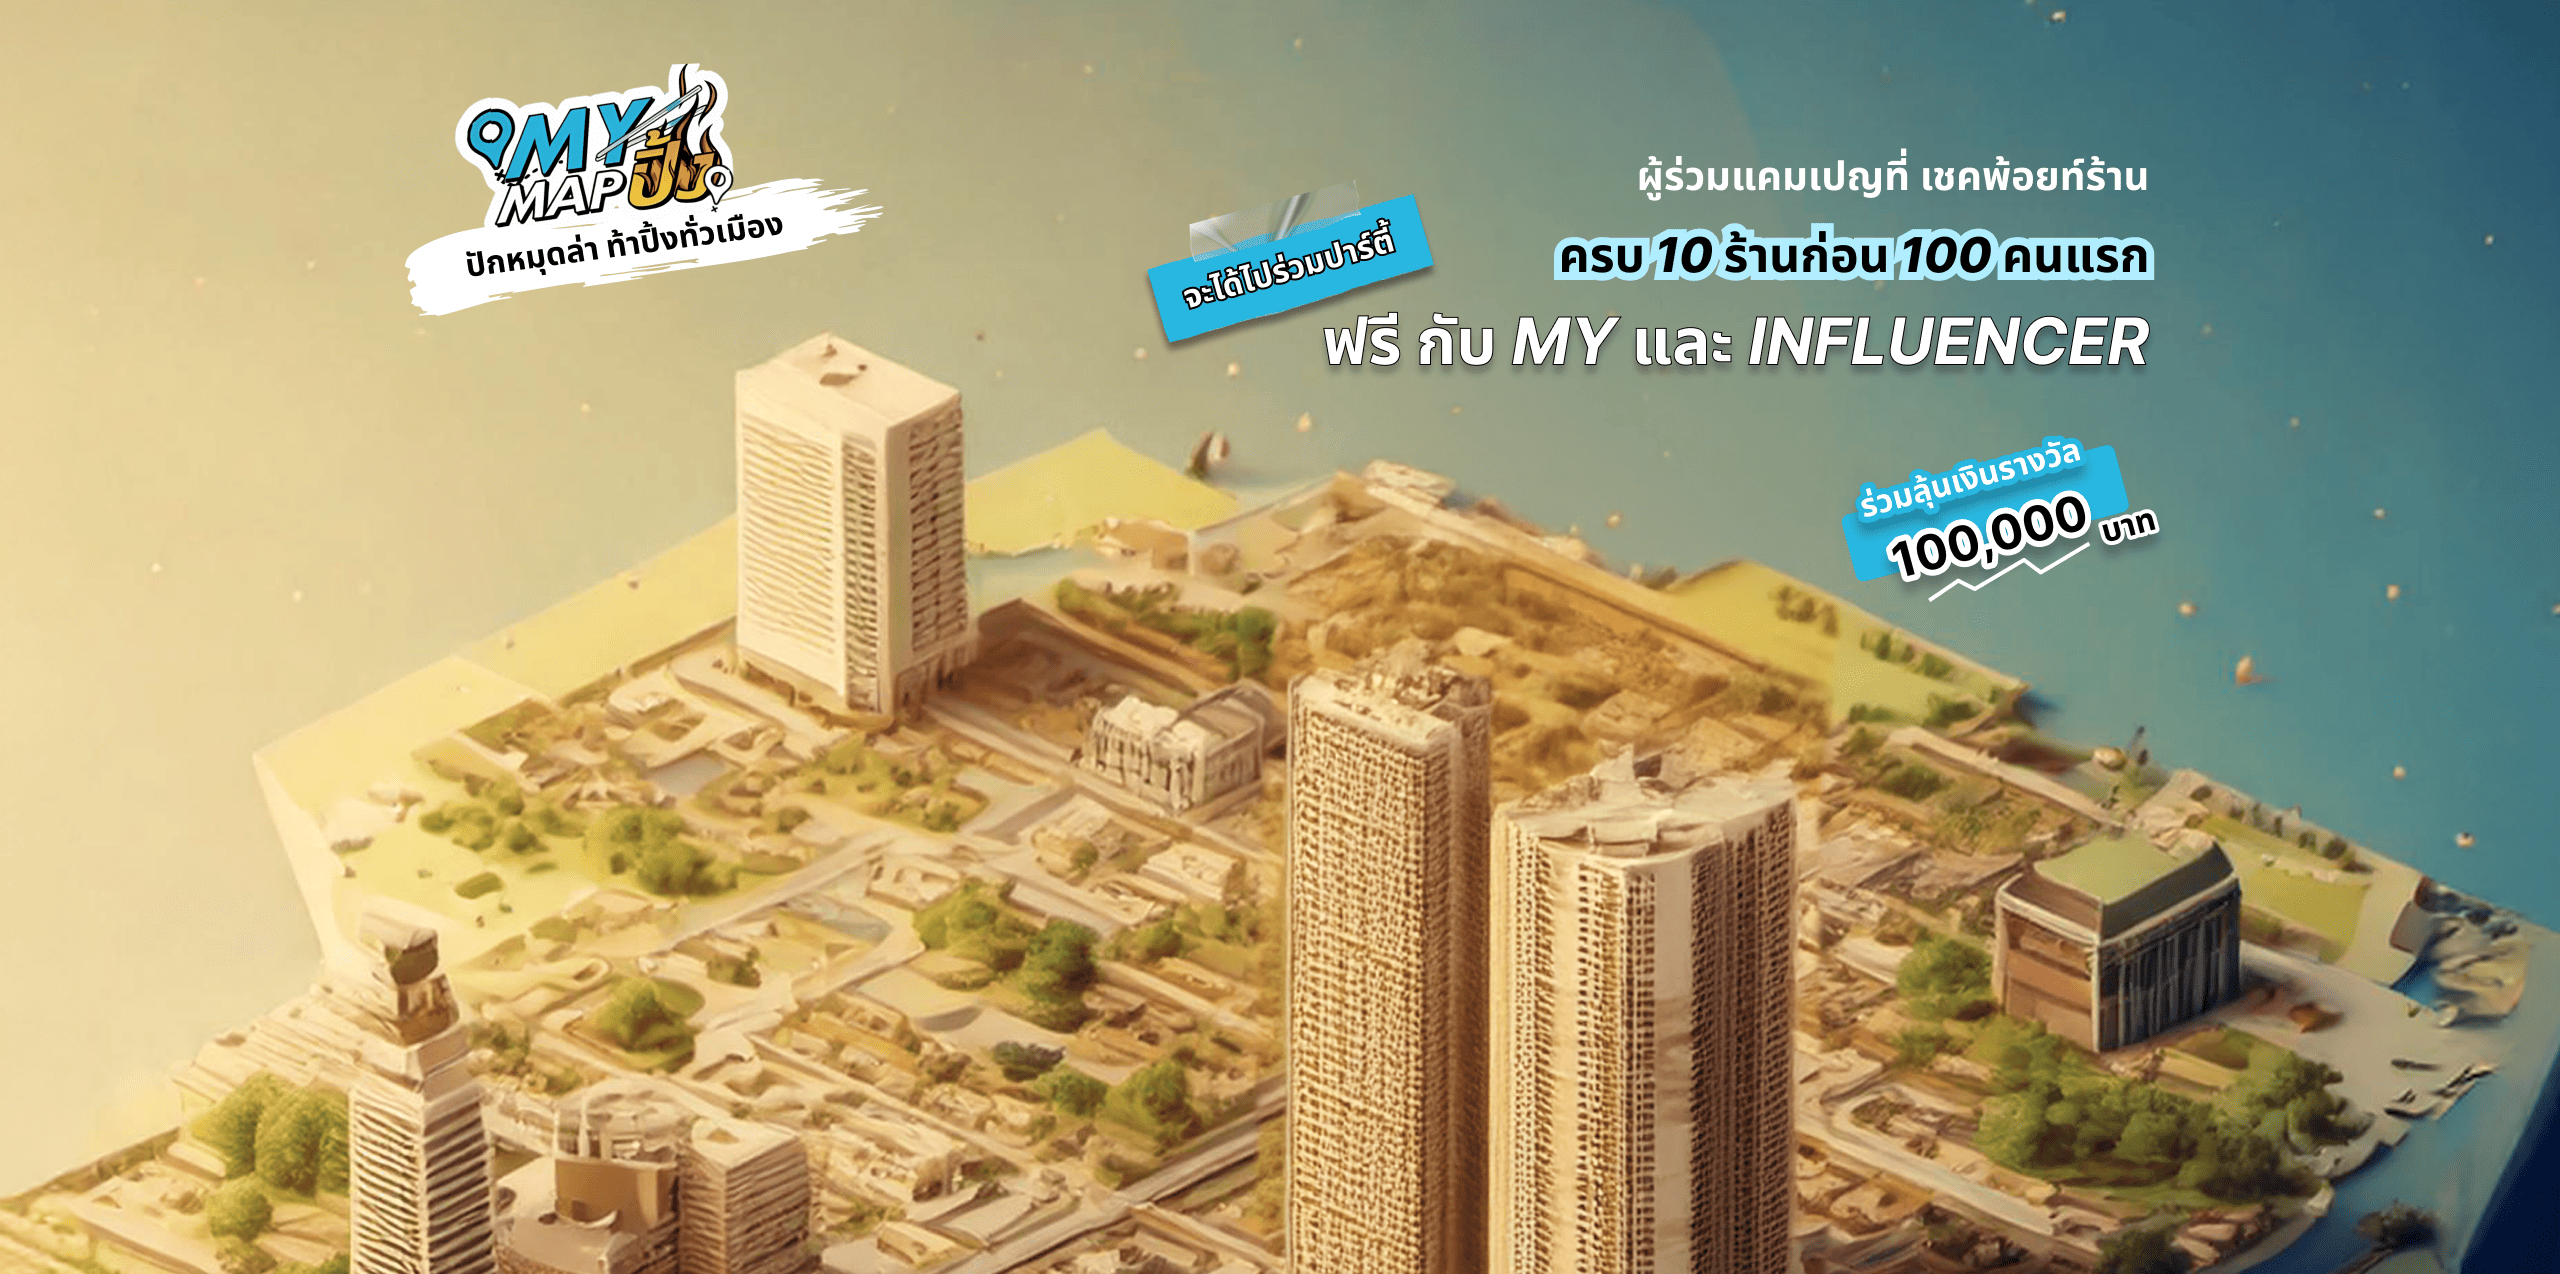
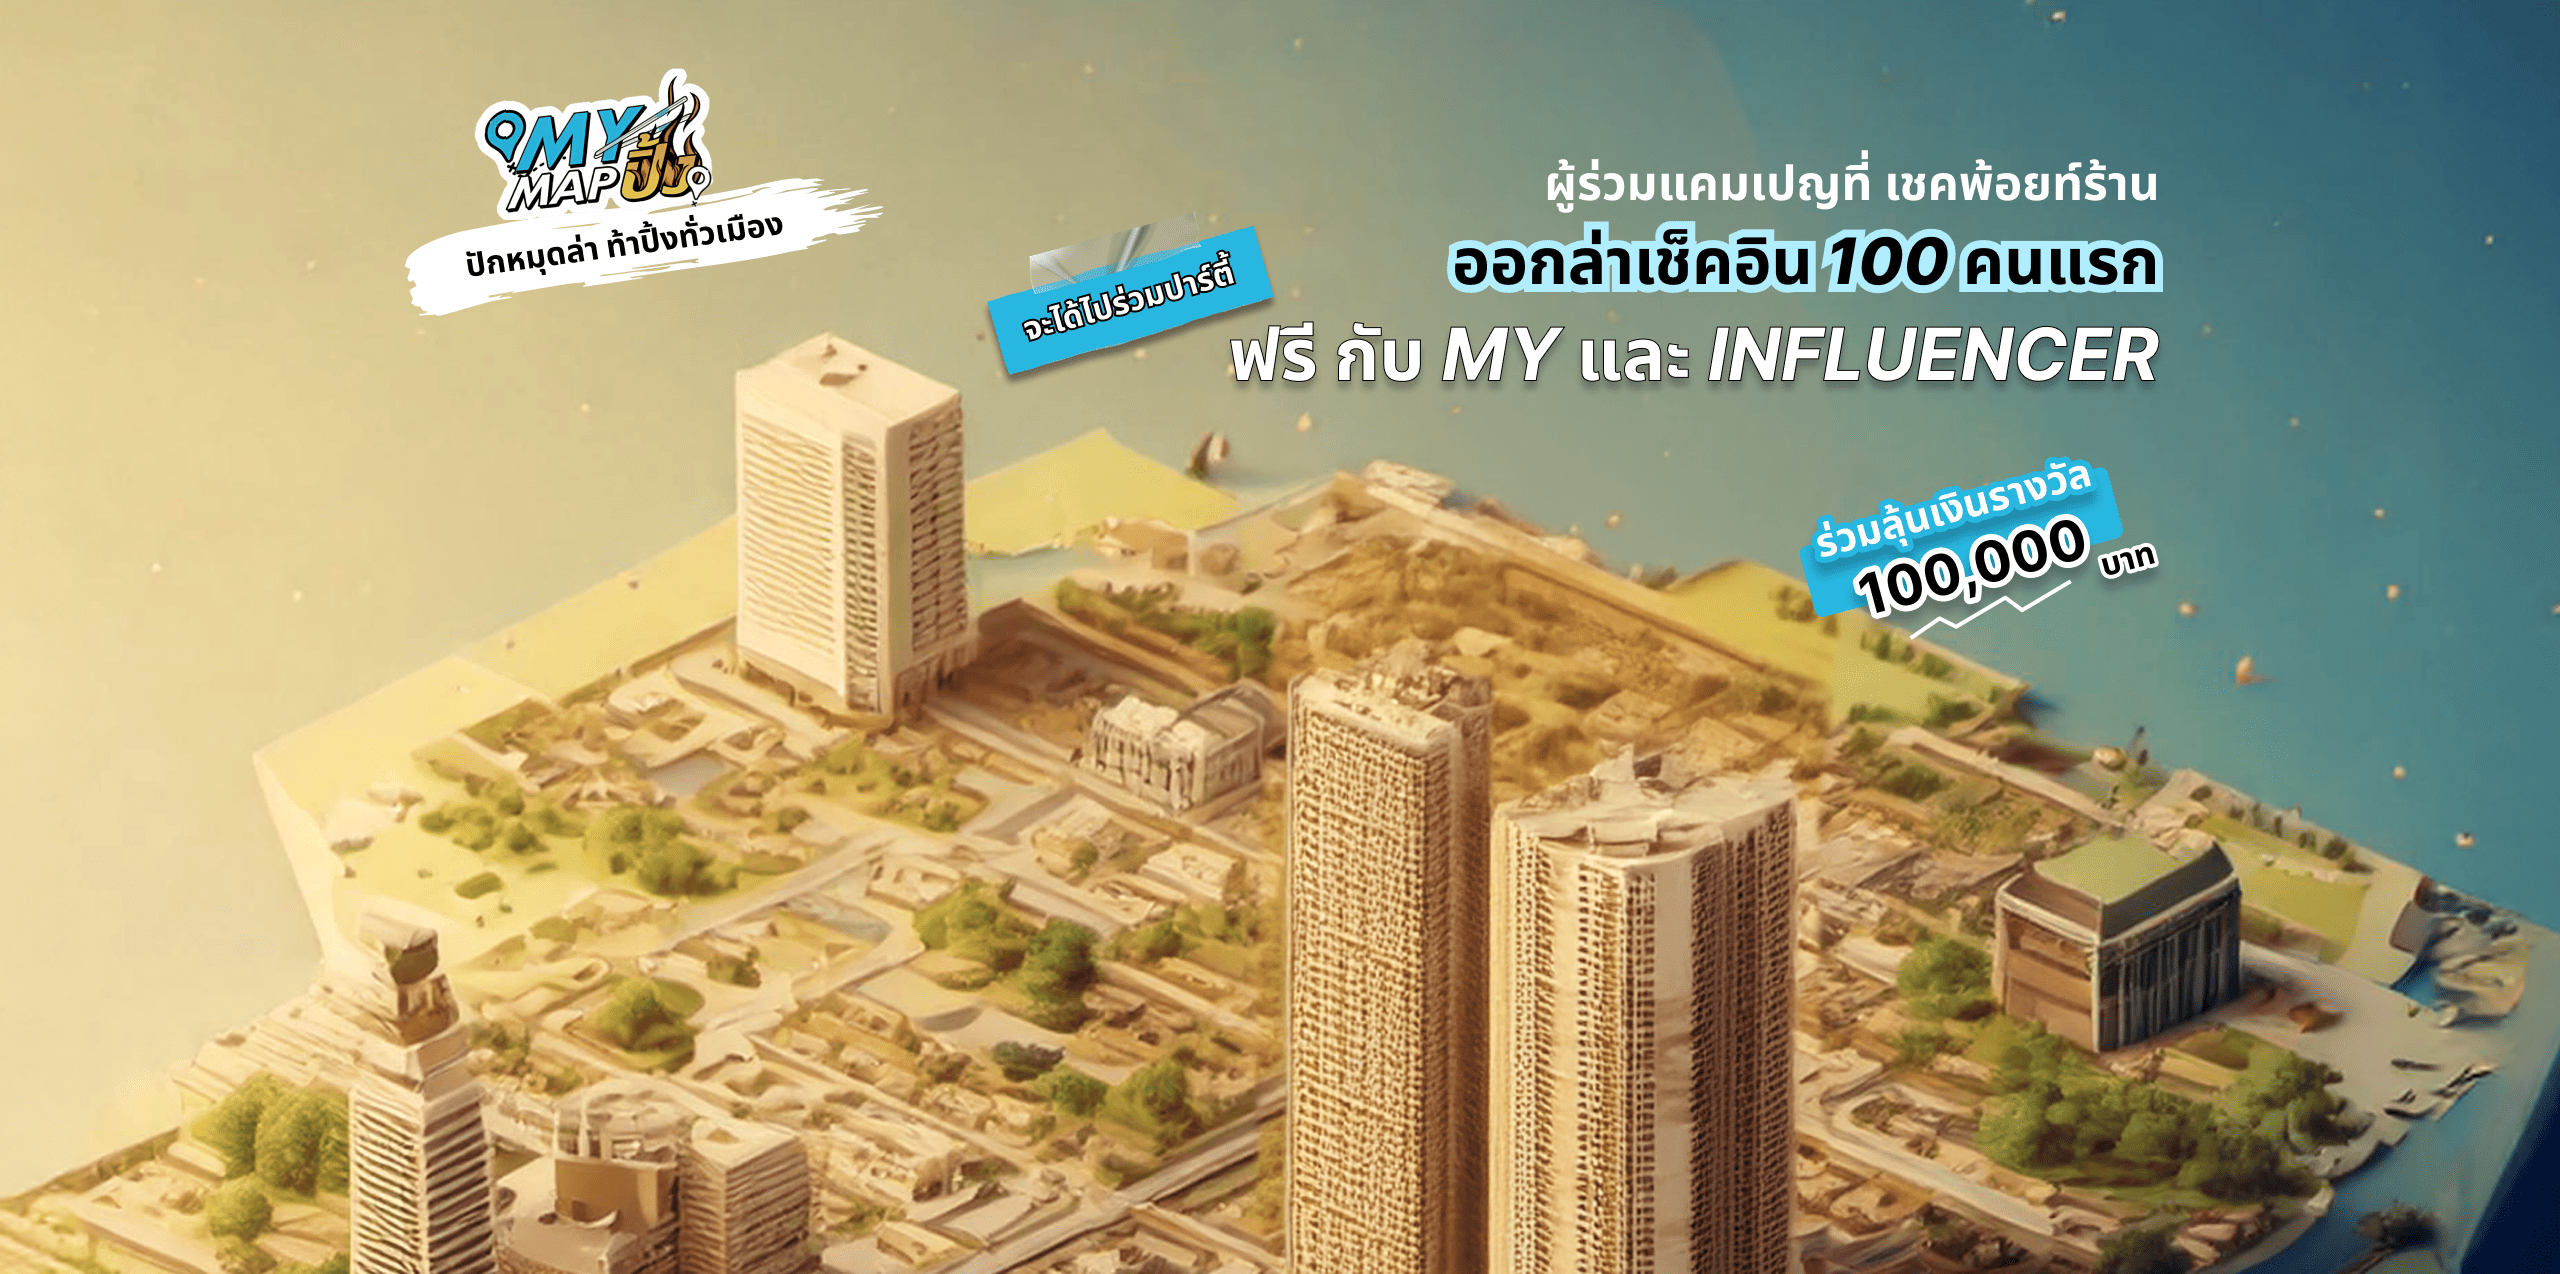
update

diff --git a/src/components/Landing/Location.jsx b/src/components/Landing/Location.jsx
@@ -43,6 +43,7 @@ const Location = ({ onCheckin }) => {
     { id: 9, name: "Bar Mookrata", top: { pc: "50%", mobile: "57%" }, left: { pc: "66%", mobile: "61%" }, image: "images/pin10.png" },
     { id: 10, name: "อารยาหมูกระทะ", top: { pc: "37%", mobile: "44%" }, left: { pc: "84%", mobile: "90%" }, image: "images/pin7.png" },
     { id: 11, name: "วาสนาหมูกะทะ", top: { pc: "38%", mobile: "30%" }, left: { pc: "50%", mobile: "70%" }, image: "images/pin11.png" },
+    // { id: 10, name: "อาริยา หมูกระทะ", top: { pc: "35%", mobile: "38%" }, left: { pc: "65%", mobile: "85%" }, image: "images/pin7.png" },
   ];
 
   // แปลงข้อมูล getrestaurantData มาใช้แสดงตามตำแหน่งที่กำหนด
@@ -77,50 +78,34 @@ const Location = ({ onCheckin }) => {
         position: 'relative',
       }}
     >
-
-      {customerinfo &&
-        <>
-          {/* แสดงข้อมูล Leaderboard ของลูกค้า */}
-          {leaderInfo ? (
-            <div className="sticky top-0 left-0 right-0 bg-white p-2 w-full shadow-md shadow-black z-10">
-              <div className="flex justify-between items-center">
-                <div className="flex gap-2 items-center">
-                  {/* เช็คและแสดงอันดับที่พร้อมไอคอน */}
-                  <div className="border-r-1 pr-2">
-                    {customerRank < 3 ? (<div className="flex gap-2">
-                      อันดับที่ : <img src={icons[customerRank + 1]} alt={`อันดับที่ ${customerRank + 1}`} className="w-6 h-6 mr-2" />
-                    </div>) : (
-                      <div className="flex gap-2">อันดับที่ : {customerRank + 1}</div>
-                    )}
-                  </div>
-                  <div className="bg-[#C2F1FF] text-black px-3 py-1 rounded-xl shadow-md">
-                  {leaderInfo?.total} แต้ม
-                  </div>
-                </div>
-                <div className="flex gap-1 items-center">
-                  <img src={leaderInfo?.customer?.picture} alt={leaderInfo.customer.name} className="w-10 h-10 rounded-full mr-2" />
-                  <p className="font-bold">{leaderInfo?.customer?.name}</p>
-                </div>
-              </div>
-            </div>
-          ) : null}
-        </>
-      }
-
       <img src="images/ripper2.png" className="w-full mx-auto block lg:hidden" />
 
-      <div className="logo-container mt-25 justify-center block lg:hidden">
+      <div className="logo-container mt-15 justify-center block lg:hidden">
         <img src="images/LogoMymap.png" alt="Logo" className="w-40 lg:w-48" />
       </div>
 
-      <div className="text-center mt-5 px-6 max-w-[900px] mb-auto block lg:hidden">
-        <h2 className="text-white font-bold text-lg lg:text-xl pb-2">
-          {customerinfo ? "เลือกร้านที่คุณต้องการ " : "ผู้ร่วมแคมเปญที่ เชคพ้อยท์ร้าน"}
+      <div className="text-center px-2 w-[80%] mb-auto block gap-2 -mt-6 lg:mt-60">
+        <h2 className="text-white font-bold text-lg lg:text-3kx">
+          {customerinfo ? 
+            <p>เลือกร้านที่คุณต้องการ</p> 
+            : 
+            <p className="lg:hidden">เชคพ้อยท์ร้านหมูกะทะ <span className="text-white italic text-3xl font-extrabold drop-shadow-[4px_2px_0px_black]">100 คนแรก</span>
+            </p>}
         </h2>
+        {!customerinfo && (
+          <div className="flex justify-center">
+            <img src="images/infu.png" className="w-full max-w-[80%] lg:max-w-[20%] mx-auto lg:hidden" />
+          </div>
+        )}
+        {!customerinfo && (
+          <div className="flex justify-end lg:hidden">
+            <img src="images/100k.png" className="w-full max-w-[50%] lg:max-w-[20%]" />
+          </div>
+        )}
+
         <div className="text-black font-bold text-2xl lg:text-3xl">
-          {customerinfo ? <span className="text-white text-3xl font-extrabold">'ล่าแต้ม MY MAP ปิ้ง'</span> : <h1 className="text-black font-bold text-2xl lg:text-3xl text-outline"> ครบ 10 ร้านก่อน 100 คนแรก </h1>}
+          {customerinfo ? <span className="text-white text-3xl font-extrabold">'ล่าแต้ม MY MAP ปิ้ง'</span>  : <h1 className="text-black font-bold text-2xl lg:text-3xl text-outline"> ครบ 10 ร้านก่อน 100 คนแรก </h1>}
         </div>
-        {!customerinfo && <img src="images/infu.png" className="w-full max-w-[600px]" />}
       </div>
 
       <div className="absolute top-30 left-0 w-full h-full z-20">
@@ -134,7 +119,7 @@ const Location = ({ onCheckin }) => {
             }}
             onClick={() => (customerinfo ? handleClick(loc) : onCheckin(true))}
           >
-            <img src={loc.image} alt={loc.name} className="w-8 sm:w-12" />
+            <img src={loc.image} alt={loc.name} className="w-12 sm:w-12 xl:w-20" />
           </div>
         ))}
       </div>
@@ -143,7 +128,7 @@ const Location = ({ onCheckin }) => {
         <motion.img
           src="images/btncheckin.png"
           onClick={() => onCheckin(true)} //navigate("/RegisterEvent")
-          className="cursor-pointer mt-auto pb-0 w-50 lg:w-[400px] xl:w-[400px] z-20"
+          className="cursor-pointer mt-auto pb-0 w-50 lg:w-[200px] xl:w-[250px] z-20"
           alt="Go to Check-in"
           initial={{ y: 0 }}
           animate={{ y: [0, -10, 0] }}

diff --git a/src/components/Landing/Event.jsx b/src/components/Landing/Event.jsx
@@ -3,43 +3,54 @@ import "./style.css";
 
 const Event = () => {
   return (
-    <div className="w-full relative mb-10">
-      <img src="images/rip.png" className="ripper w-full" />
-      
-      {/* ภาพ event text */}
-      <div className="w-full flex justify-center cursor-pointer">
-        <img src="images/textevent.png" alt="Checkin Banner" className="w-[50%] md:w-[45%] lg:w-[30%] xl:w-[35%] 2xl:w-[30%] max-sm:w-[70%]" />
+    <div 
+      className="event w-full flex flex-col items-center justify-center relative px-4 lg:px-8 py-8"
+      style={{
+        backgroundImage: "url('images/bg-paper.png')",
+        backgroundSize: "cover",
+        backgroundPosition: "center",
+        backgroundRepeat: "no-repeat",
+      }}
+    >
+      {/* หัวข้อหลัก */}
+      <div className="w-full flex justify-center mb-4">
+        <img src="images/textevent.png" alt="Event" className="w-[80%] max-w-xs lg:w-[50%] max-w-lg" />
       </div>
-      
-      {/* Container สำหรับข้อความและปุ่ม */}
-      <div className="absolute top-[40%] lg:top-[45%] right-[18%] md:right-[35%] lg:right-[15%] xl:right-[39%] flex flex-col items-center gap-4 transform -translate-y-1/2">
-        <h1 className="text-sm lg:text-xl font-bold">ล่า COINS หมูกะทะ</h1>
+
+      {/* กล่องข้อมูล COINS */}
+      <div className="w-full flex flex-col lg:flex-row items-center justify-center text-center gap-2 lg:gap-6">
         
-        {/* ปุ่ม คลิกเลย พร้อมอนิเมชั่นลอยขึ้นลง */}
-        <motion.button 
-          className="event-button bg-gradient-to-r from-[#004A5D] to-[#009BC3] text-white px-6 md:px-8 lg:px-10 py-3 md:py-4 lg:py-5 rounded-lg border border-[#28B7E1] shadow-md hover:from-[#003D4C] hover:to-[#008BB0] transition duration-300 text-lg md:text-xl lg:text-2xl"
-          initial={{ y: 0 }}
-          animate={{ y: [0, -20, 0] }}
-          transition={{ repeat: Infinity, duration: 1.5, ease: "easeInOut" }}
-        >
-          คลิกเลย
-        </motion.button>
+        {/* ข้อความ */}
+        <p className="text-black font-semibold text-lg lg:text-2xl whitespace-nowrap">
+          ตามล่า COINS หมูกะทะ
+        </p>
+
+        {/* จำนวน COINS */}
+        <div className="bg-white px-4 py-1 rounded-lg border-2 border-[#28B7E1] text-[#28B7E1] text-2xl lg:text-4xl font-bold shadow-md">
+          15,000 <span className="text-black text-sm">COINS</span>
+        </div>
+
       </div>
-      
-      {/* ปุ่ม Add Line */}
-      <div className="absolute bottom-[5%] right-[15%] md:right-[31%] lg:right-[20%] xl:right-[38%] flex flex-col items-center">
-        <a href="https://line.me/ti/p/@myworld" target="_blank" rel="noopener noreferrer">
-          <button className="event-button bg-gradient-to-r from-[#004A5D] to-[#009BC3] text-white px-6 md:px-8 lg:px-10 py-3 md:py-4 lg:py-5 rounded-lg border border-[#28B7E1] shadow-md hover:from-[#003D4C] hover:to-[#008BB0] transition duration-300 flex items-center text-lg md:text-xl lg:text-2xl">
-            <img src="images/line-icon.png" alt="Line" className="w-6 md:w-8 lg:w-10 h-6 md:h-8 lg:h-10 mr-2" />
-            <span>Add Line</span>
-          </button>
-        </a>
-      </div>
-      
-      {/* ภาพ event หลัก */}
+
+      {/* รูป My Box Set */}
       <div className="w-full flex justify-center mt-6">
-        <img src="images/event.png" alt="Checkin Banner" className="w-[50%] md:w-[45%] lg:w-[40%] xl:w-[35%] 2xl:w-[30%] max-sm:w-[70%]" />
+        <img src="images/cupon.png" alt="MY BOX SET" className="w-[90%] max-w-sm lg:w-[50%] max-w-lg" />
       </div>
+
+      {/* ปุ่ม คลิกเลย */}
+      <motion.button 
+        className="bg-gradient-to-r from-[#004A5D] to-[#009BC3] text-white px-10 py-3 rounded-lg border border-[#28B7E1] shadow-md mt-6 text-lg lg:text-2xl font-bold w-[80%] max-w-xs lg:w-[40%] max-w-md"
+        initial={{ y: 0 }}
+        animate={{ y: [0, -10, 0] }}
+        transition={{ repeat: Infinity, duration: 1.5, ease: "easeInOut" }}
+      >
+        คลิกเลย
+      </motion.button>
+
+      {/* รายการร้านหมูกระทะ */}
+      <p className="mt-6 text-gray-800 font-semibold text-center text-sm lg:text-xl pb-10">
+        สามารถแลกได้ที่ <span className="text-[#28B7E1] font-bold text-xl lg:text-3xl">11 ร้านหมูกะทะ</span> ที่ร่วมรายการ
+      </p>
     </div>
   );
 };

diff --git a/src/components/Landing/Scorebroad.jsx b/src/components/Landing/Scorebroad.jsx
@@ -48,7 +48,7 @@ const Scoreboard = () => {
   return (
     <div className="p-5 pb-10 flex flex-col items-center bg-[url(images/bgbroad.png)] mb-10 bg-left-top bg-no-repeat bg-cover">
       <div className="text-center text-white font-bold text-2xl mb-4">
-        <img src="images/score.png" alt="Logo" className="mx-auto w-40" />
+        <img src="images/score.png" alt="Logo" className="mx-auto w-40 lg:w-80" />
       </div>
 
       <div className="w-full max-w-2xl p-4 flex flex-col gap-4 overflow-hidden transition-all duration-300">

diff --git a/vite.config.js b/vite.config.js
@@ -9,5 +9,5 @@ export default defineConfig(({ command }) => ({
     react(),
     basicSsl()
   ],
-  base: '/My-map/', // '/' ตอน dev, '/testLanding/' ตอน build
+  base: '/My-map/', // '/' ตอน dev, '/My-map/' ตอน build
 }))
